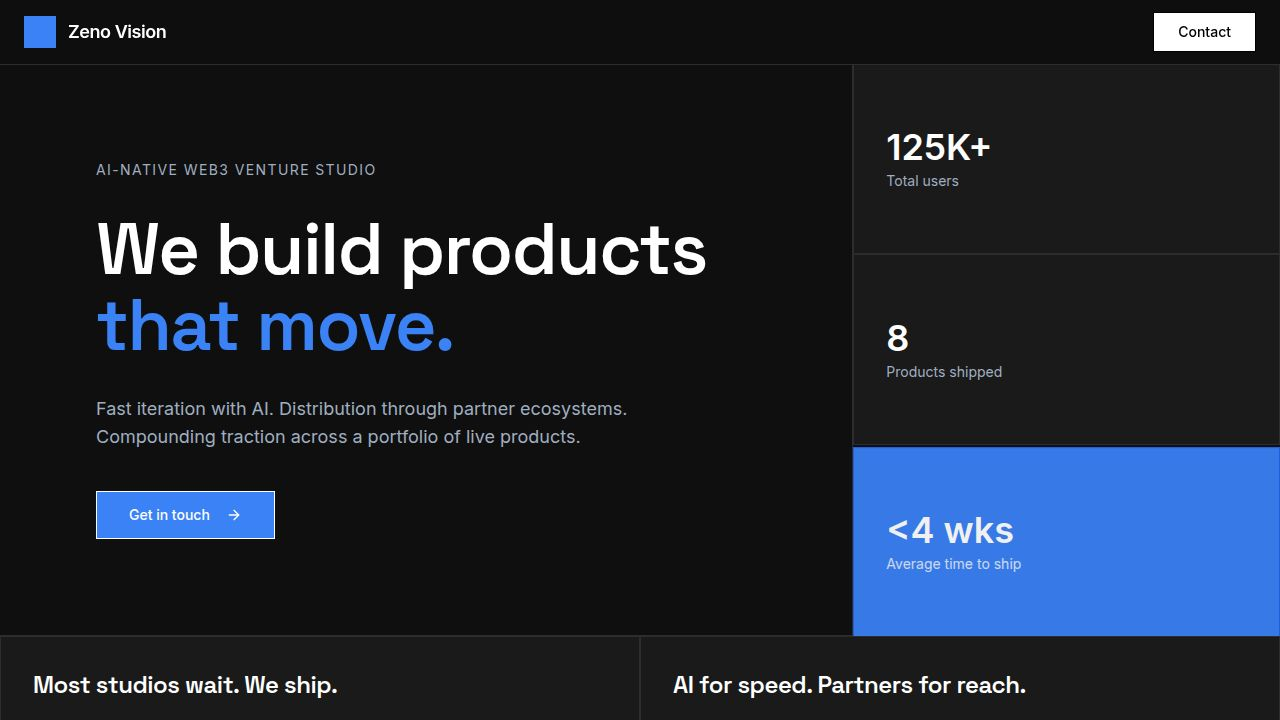
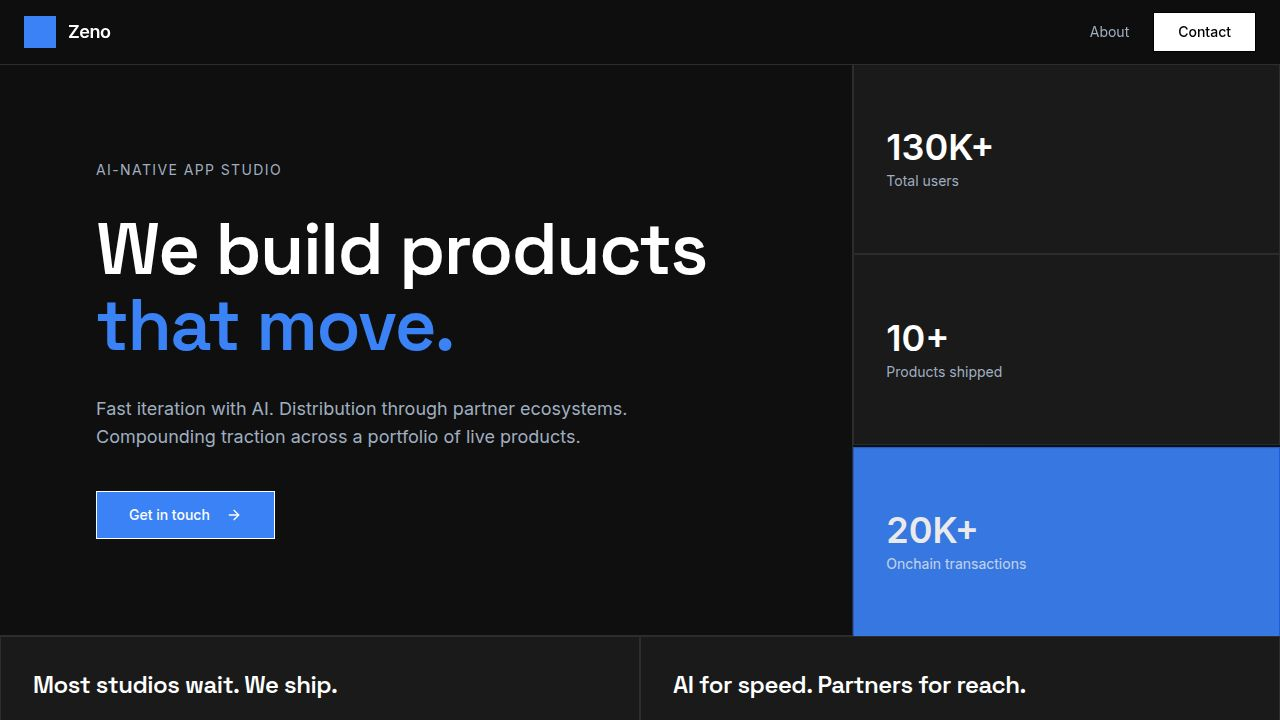
Update hero section text to reflect new company focus
Change text on the home page hero section from "AI-Native Web3 Venture Studio" to "AI-Native App Studio" in client/src/pages/home.tsx.

Replit-Commit-Author: Agent
Replit-Commit-Session-Id: 262afabe-b372-450c-9c74-cf88ad5452be
Replit-Commit-Checkpoint-Type: full_checkpoint
Replit-Commit-Event-Id: 378885b4-6606-4500-a758-10136fa78d58
Replit-Commit-Screenshot-Url: https://storage.googleapis.com/screenshot-production-us-central1/4f4f9012-dcda-40b1-bf47-ed13ac9763ff/262afabe-b372-450c-9c74-cf88ad5452be/gtTclPv
Replit-Helium-Checkpoint-Created: true

diff --git a/client/src/pages/home.tsx b/client/src/pages/home.tsx
@@ -144,7 +144,7 @@ export default function Home() {
                   transition={{ duration: 0.6 }}
                 >
                   <div className="text-sm text-[#a0aec0] uppercase tracking-widest mb-8">
-                    AI-Native Web3 Venture Studio
+                    AI-Native App Studio
                   </div>
                   <h1 className="text-4xl md:text-6xl lg:text-7xl font-semibold leading-[1.05] tracking-tight mb-8">
                     We build products
